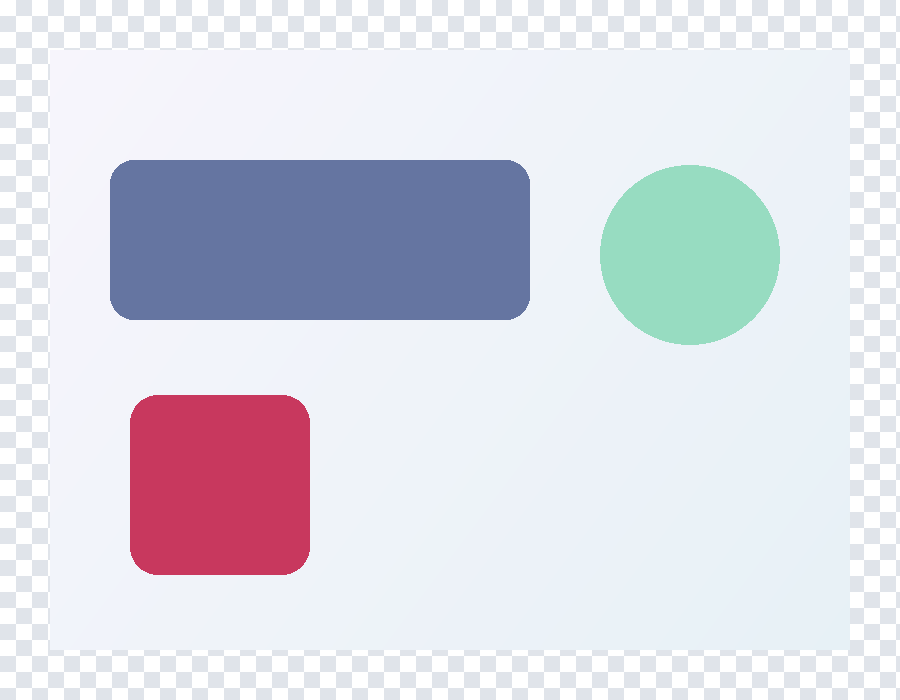
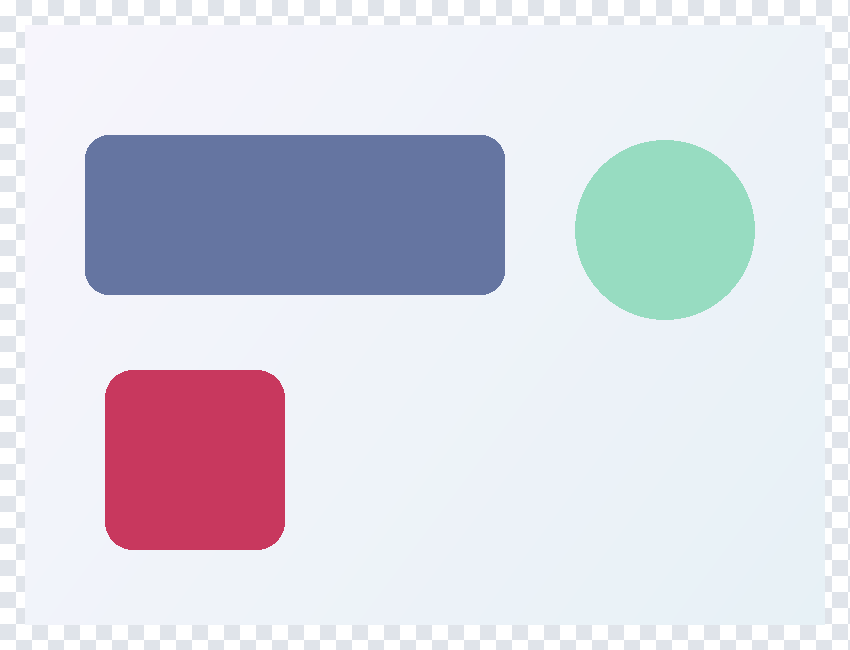
Reduce documentation preview padding to25pixels

diff --git a/documentation/docfx/guides/testing/generate-images.cs b/documentation/docfx/guides/testing/generate-images.cs
@@ -125,7 +125,7 @@ void SaveImage(string name, SKImage image)
 
 void SavePreview(string name, SKImage image)
 {
-    const int padding = 50;
+    const int padding = 25;
     var width = image.Width + padding * 2;
     var height = image.Height + padding * 2;
     using var bitmap = new SKBitmap(new SKImageInfo(width, height, SKColorType.Bgra8888, SKAlphaType.Opaque));

diff --git a/documentation/docfx/guides/testing/image-comparison.md b/documentation/docfx/guides/testing/image-comparison.md
@@ -39,8 +39,8 @@ dotnet add package SkiaSharp.Testing
 Every example uses this scene. The rounded blue panel changes from RGB **(72, 104, 192)**
 to **(74, 106, 194)**, the green circle keeps RGB **(48, 185, 131)** but changes alpha
 from **255** to **128**, and the rounded violet square is new. The display copies
-have a 50-pixel checkerboard surround and backdrop to reveal transparency.
-Every displayed image, including masks and diagnostics, is 900x700 with the
+have a 25-pixel checkerboard surround and backdrop to reveal transparency.
+Every displayed image, including masks and diagnostics, is 850x650 with the
 800x600 result centered inside. Opaque regions hide the checkerboard. The original
 `expected.png` and `actual.png` retain their alpha for comparison; the
 checkerboard is not part of the compared pixels.
